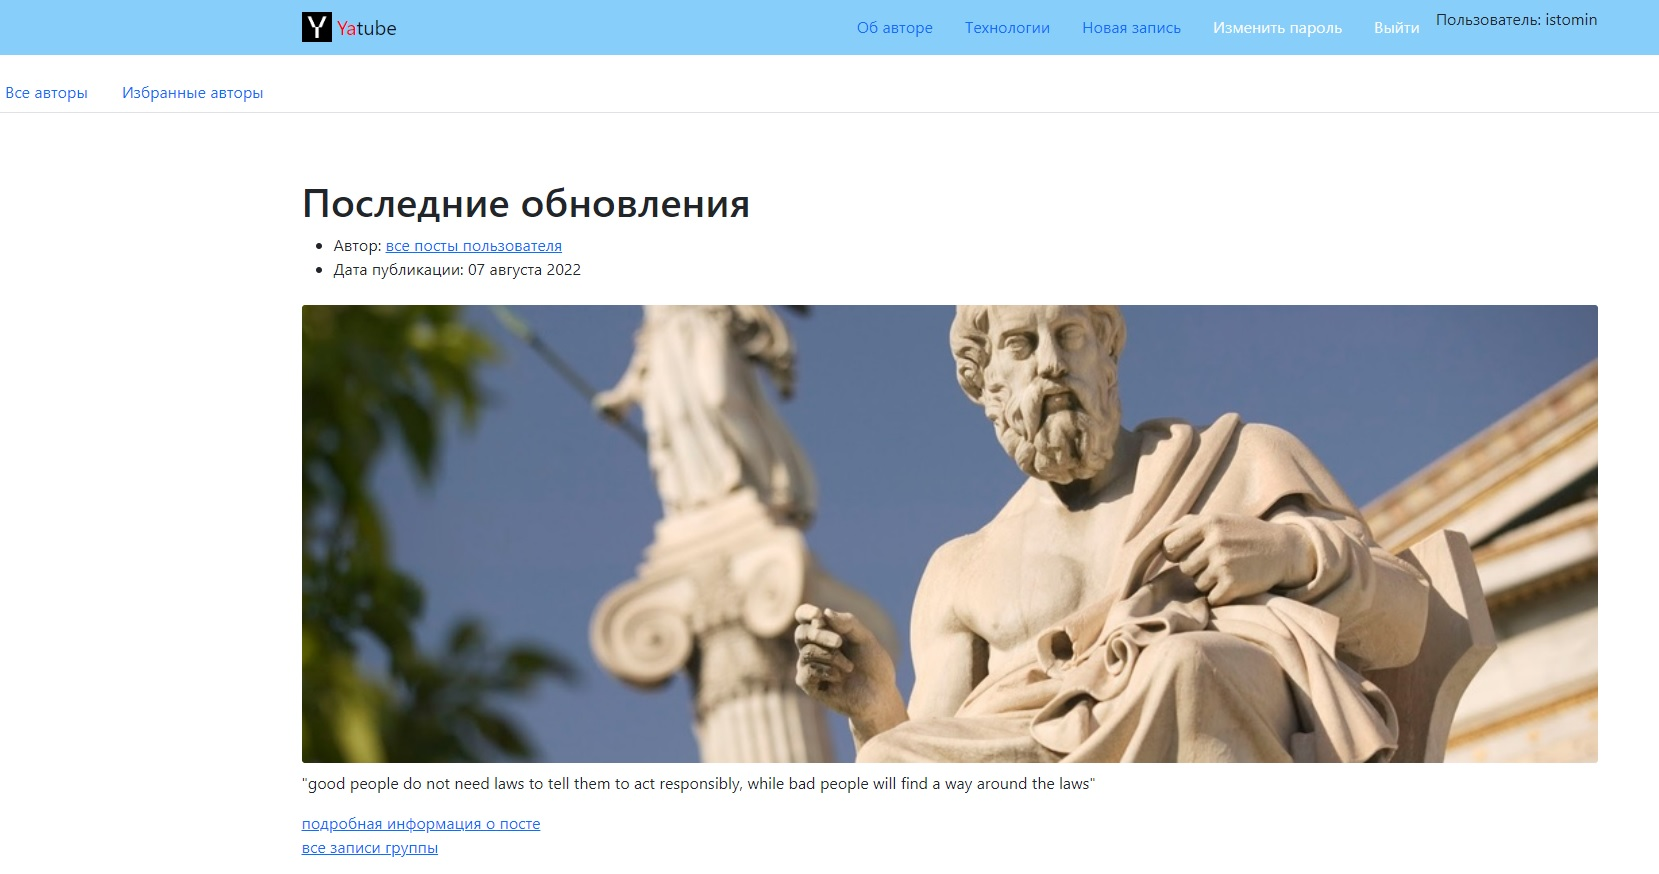
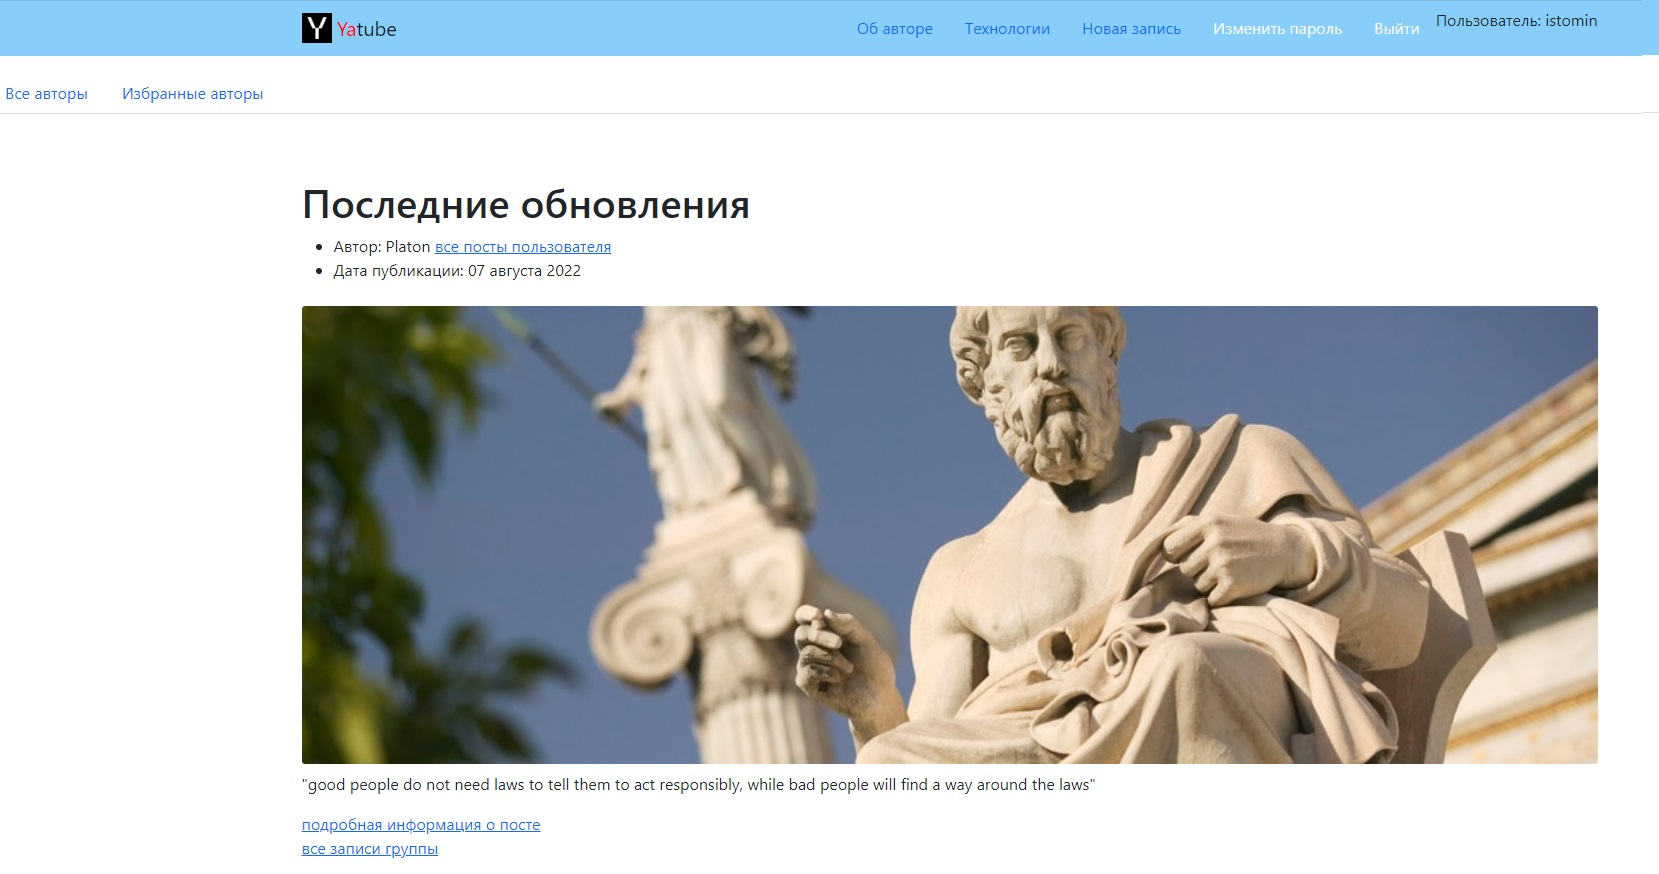
Changed photo

diff --git a/templates/posts/includes/post_list.html b/templates/posts/includes/post_list.html
@@ -3,7 +3,7 @@
 <article>
     <ul>
       <li>
-        Автор: {{ post.author.get_full_name }}
+        Автор: {{ post.author.first_name }} {{ post.author.last_name }}
         <a href="{% url 'posts:profile' post.author %}">все посты пользователя</a>
       </li>
       <li>
